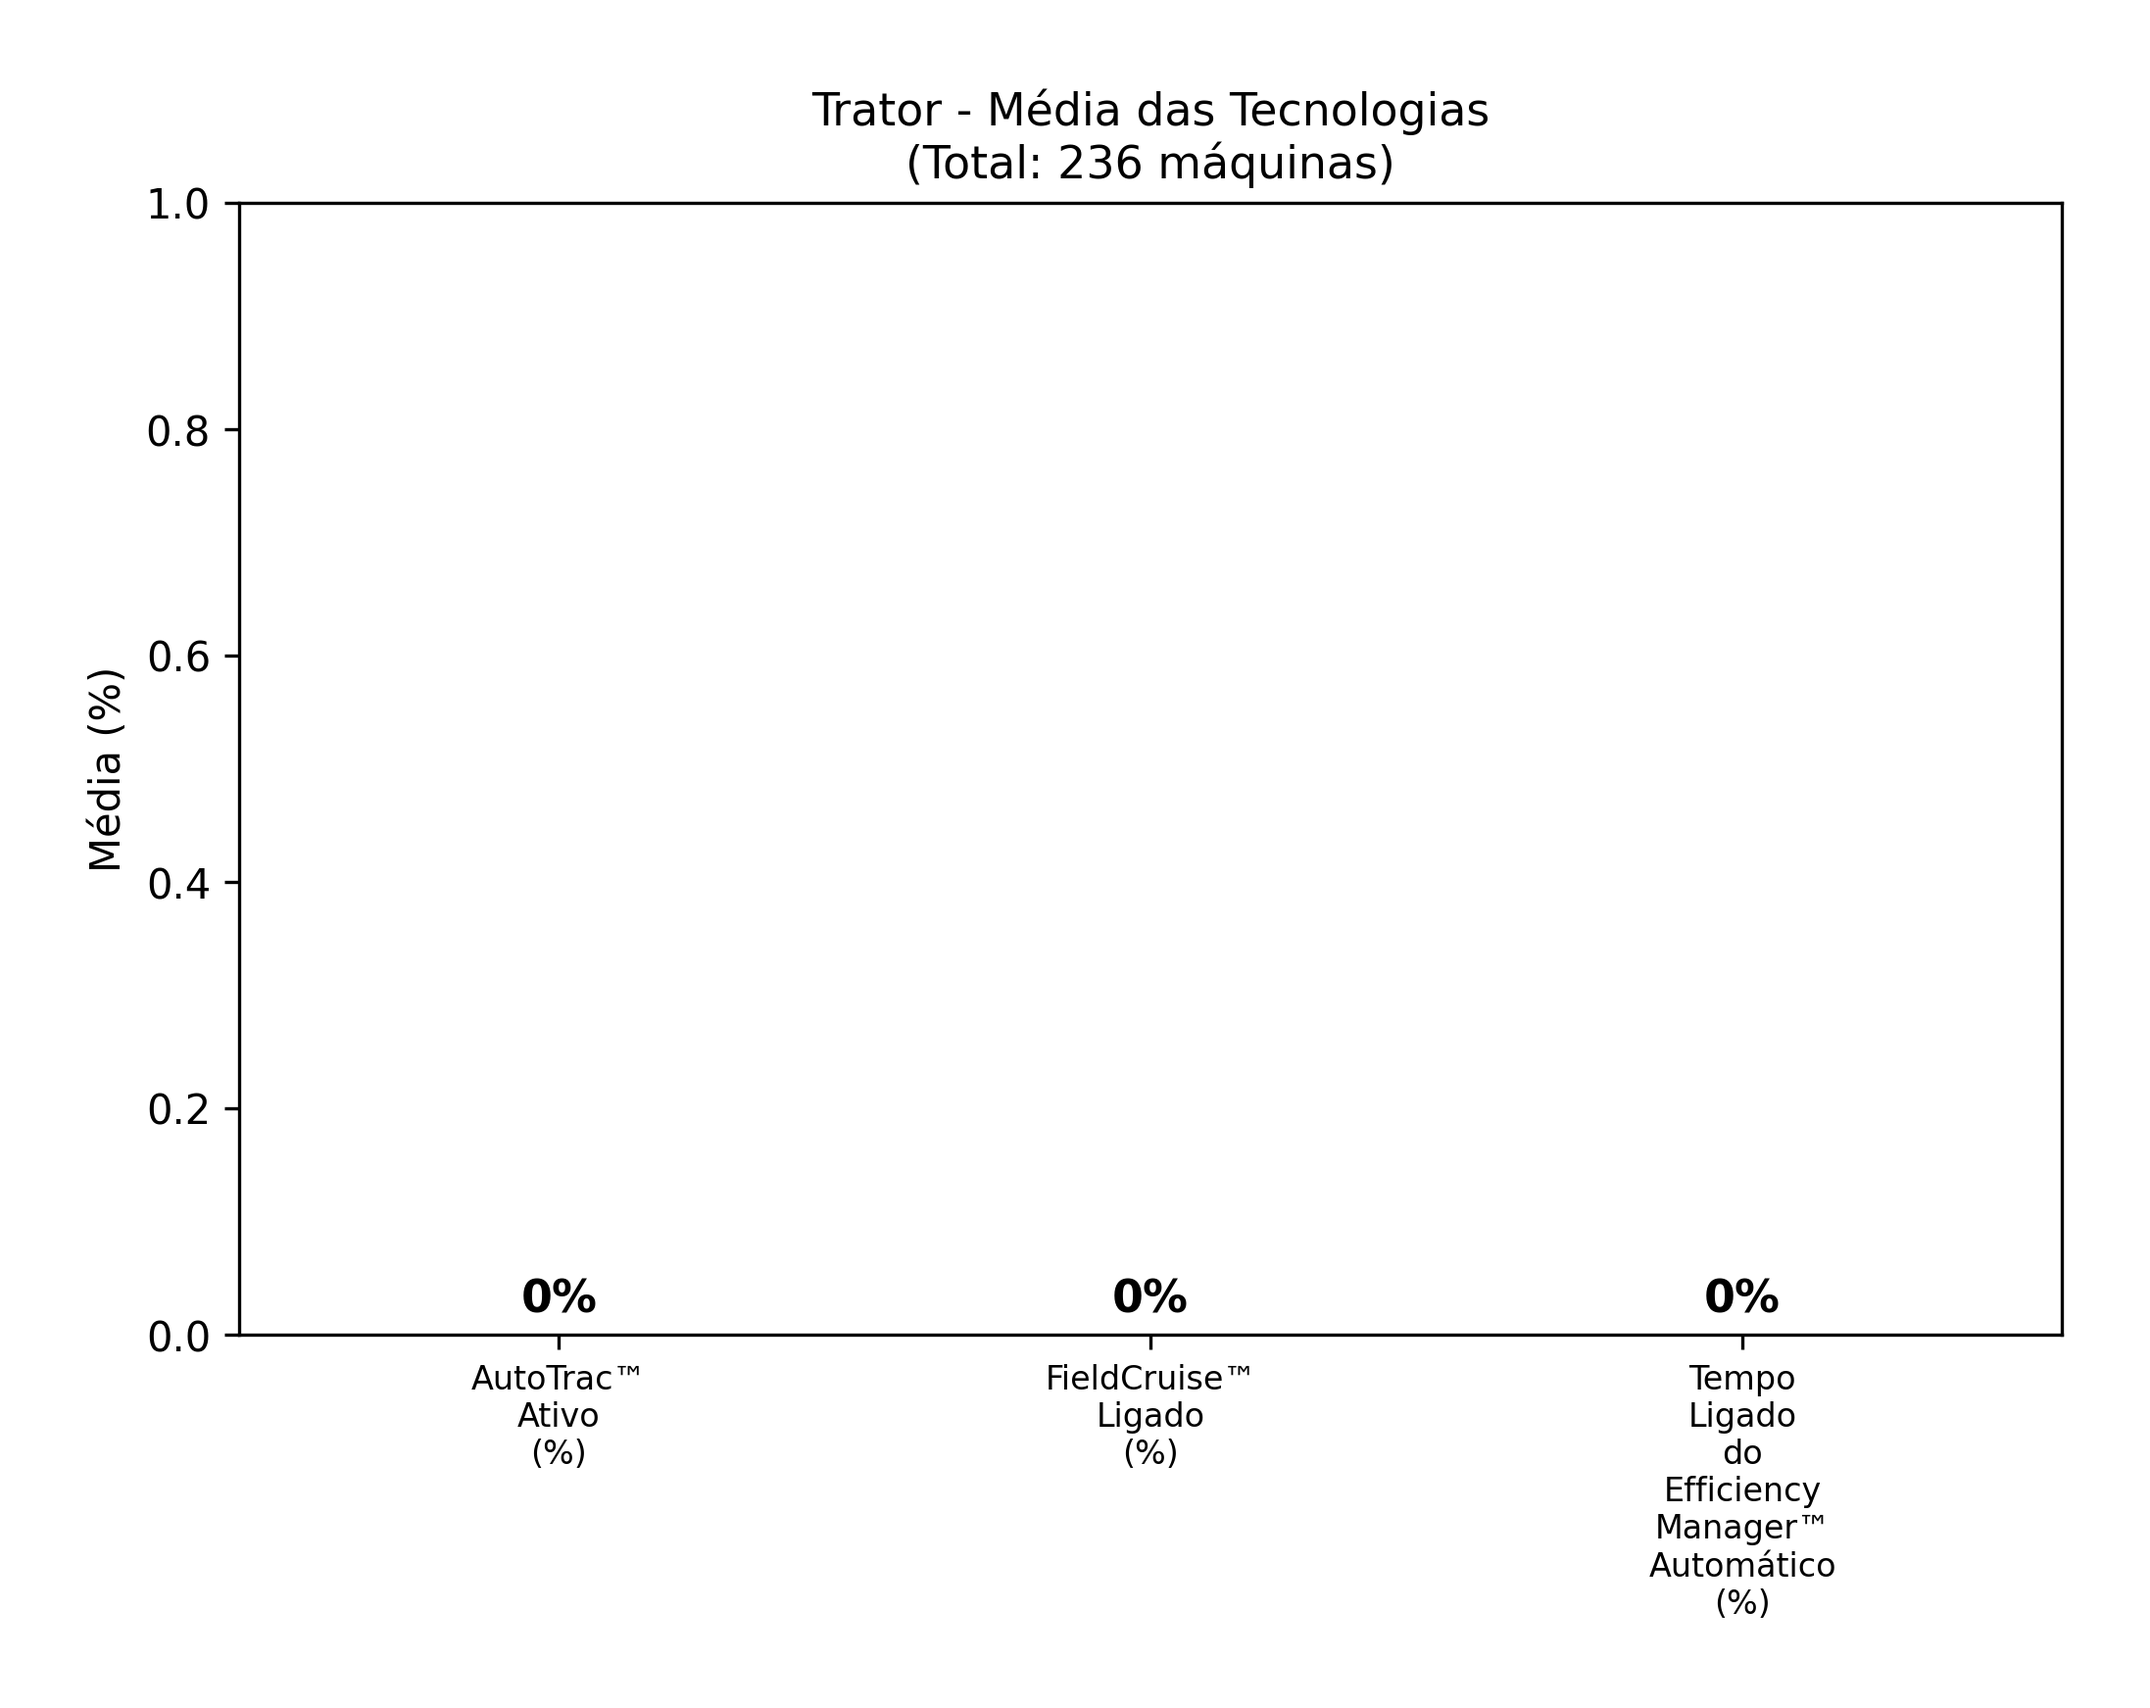
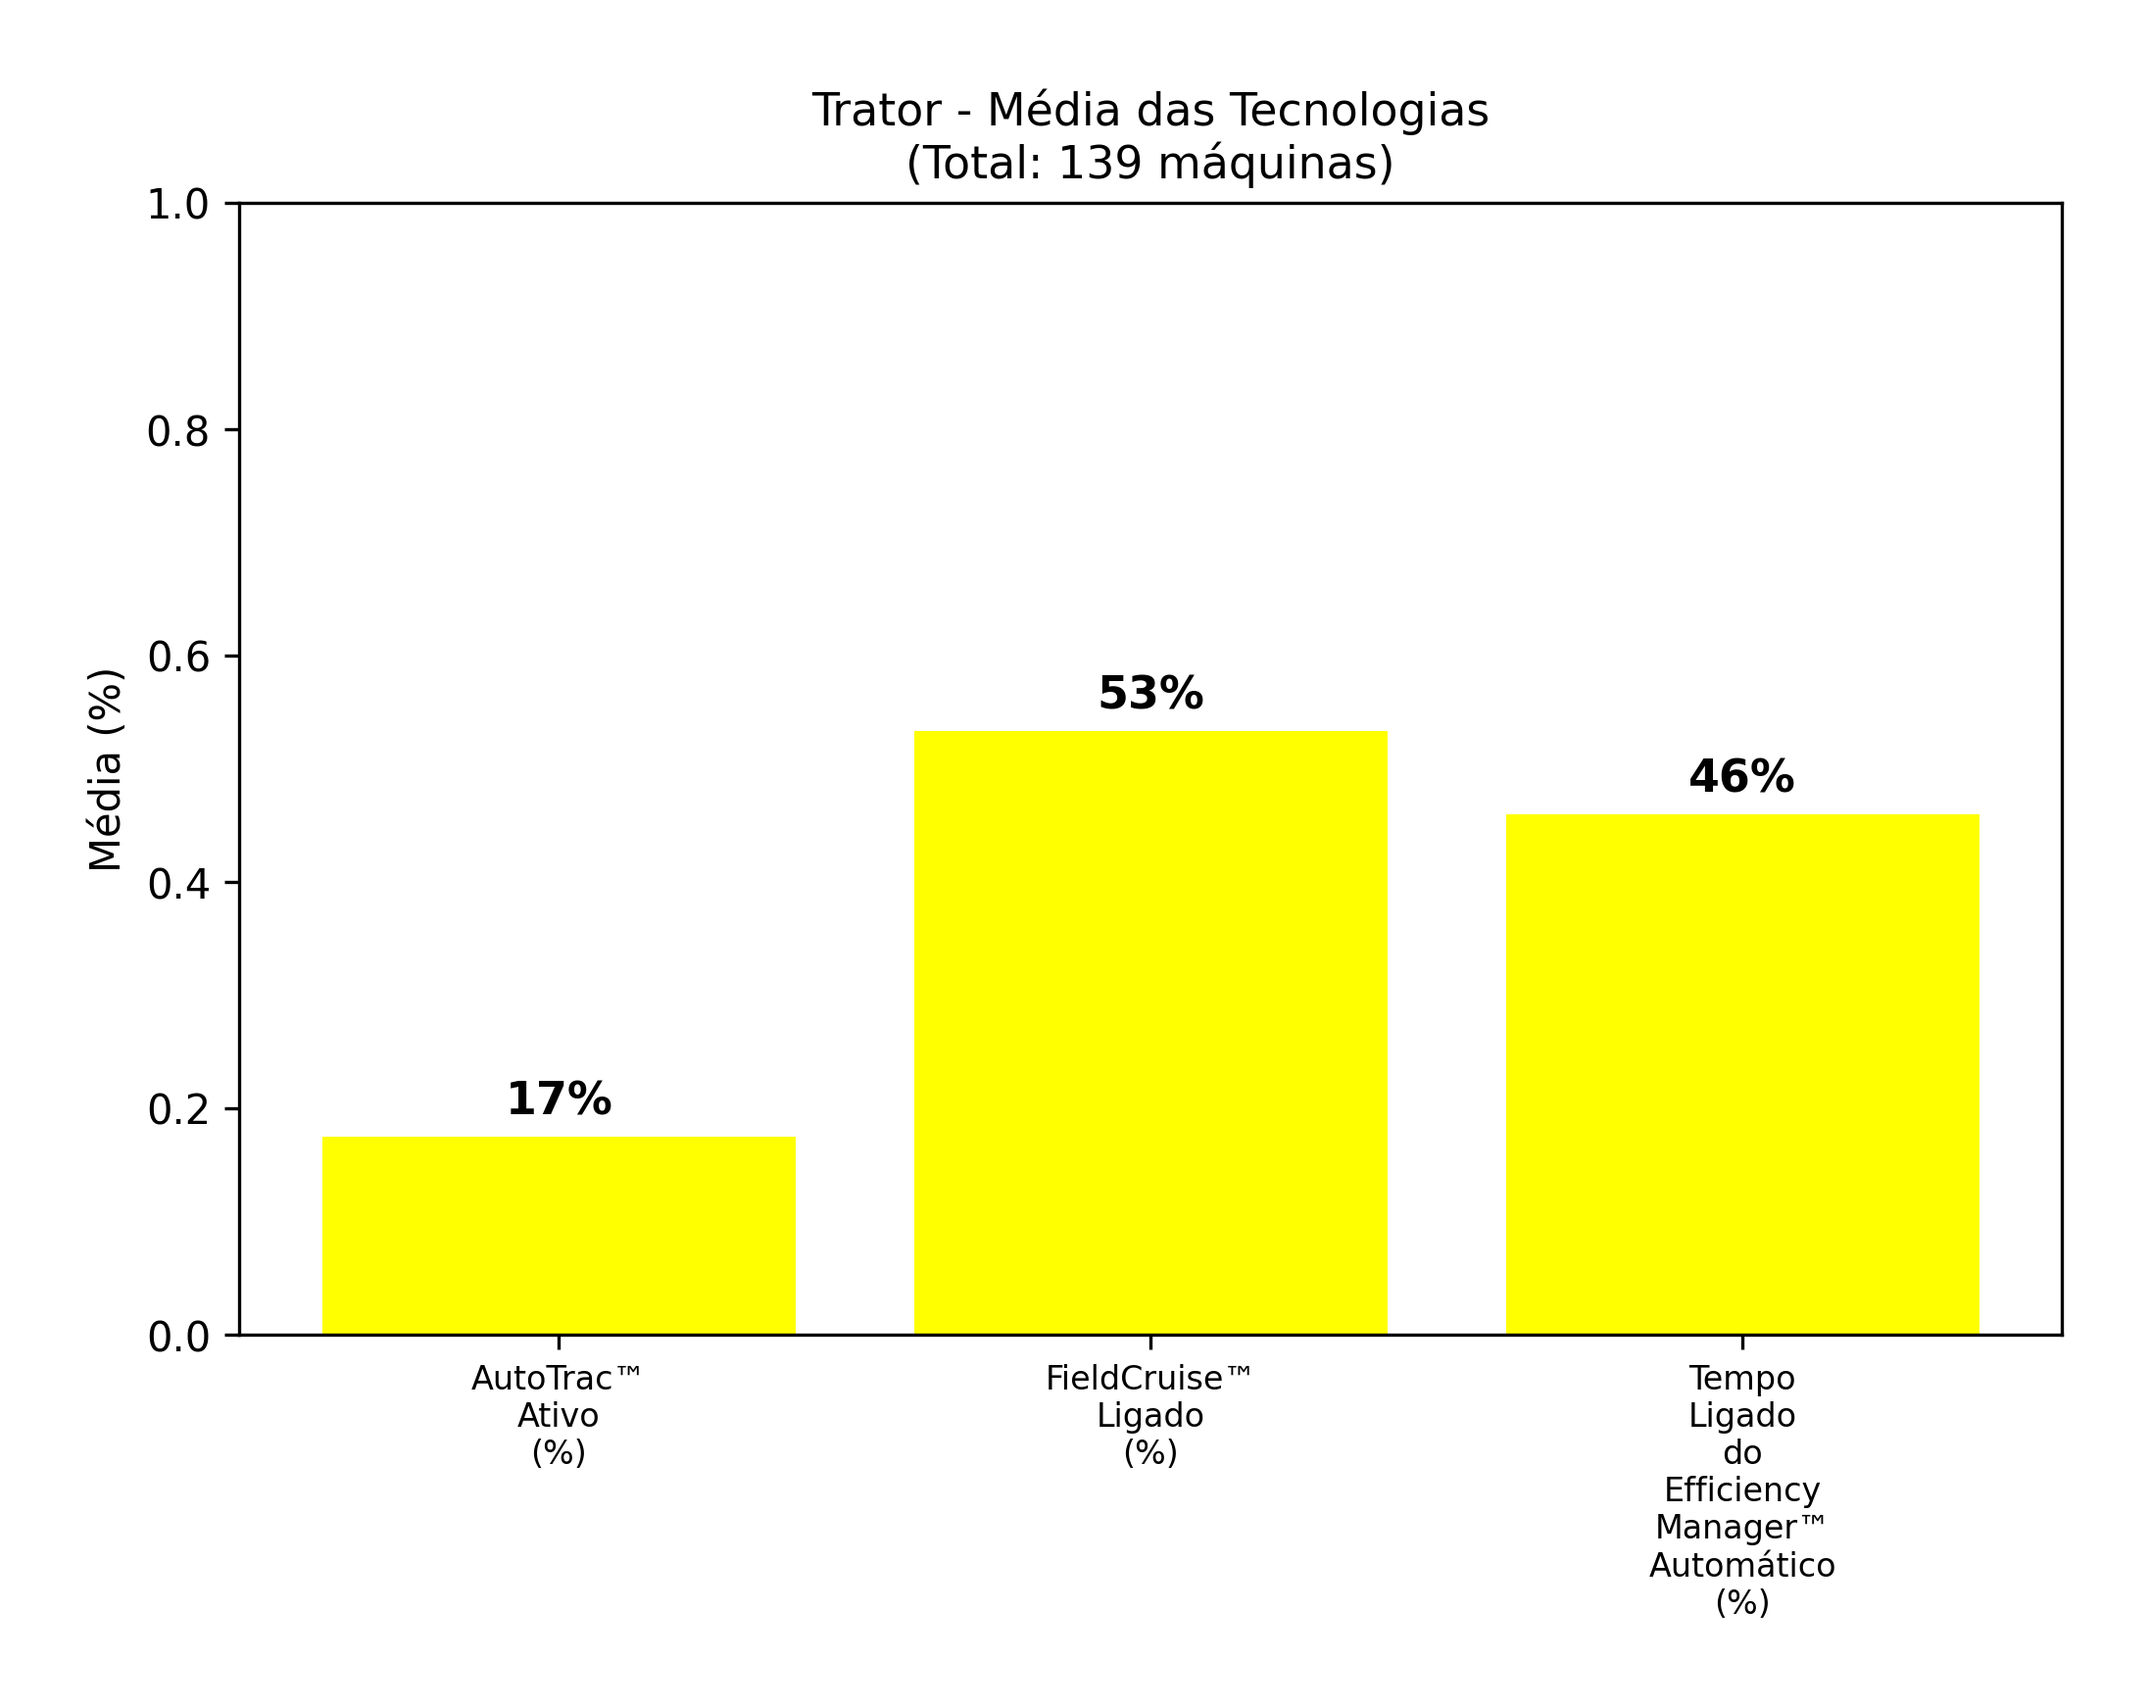
novos dados

Changed region(s): [[0.4029, 0.3718, 0.6509, 0.8055], [0.6819, 0.4337, 0.9298, 0.8055], [0.124, 0.6196, 0.3719, 0.8055]]

diff --git a/app.py b/app.py
@@ -417,45 +417,34 @@ if uploaded_file:
             st.stop()
 
         colunas = colunas_por_tipo[tipo_selecionado]
-####NOVIDADE
-        # Converte para número, mantém NaN onde for inválido
+
         for col in colunas:
             df_filtrado[col] = pd.to_numeric(df_filtrado[col], errors="coerce")
 
-        # Calcula médias ignorando NaN
+
         df_resultado = df_filtrado.groupby("Máquina")[colunas].mean().reset_index()
-
-        # Média por máquina (ignora NaN automaticamente)
-        df_resultado["Média (%)"] = df_resultado[colunas].mean(axis=1)
-
-        # Multiplica por 100 para formatar como porcentagem
-        for col in colunas:
-            df_resultado[col] = df_resultado[col] 
-        df_resultado["Média (%)"] = df_resultado["Média (%)"] * 100
-
-        # Arredondamento
-        df_resultado[colunas + ["Média (%)"]] = df_resultado[colunas + ["Média (%)"]].round(2)
-
-        # Ordenação
+        df_resultado["Média (%)"] = df_resultado[colunas].mean(axis=1) * 100 # média correta, ignora NaN
+        df_resultado["Média (%)"] = df_resultado["Média (%)"].apply(lambda x: round(x, 2))
         df_resultado = df_resultado.sort_values(by="Média (%)", ascending=False)
-
-        # Cálculo da média geral por coluna
-        media_por_coluna = df_filtrado[colunas].mean() * 100
-        media_por_coluna = media_por_coluna.round(2)
 
         media_geral_dict = {
             "Máquina": "Média Geral",
-            **{col: f"{media_por_coluna[col]}%" for col in colunas},
+            **{col: f"{round(df_resultado[col].mean() *100, 2)}%" for col in colunas},
             "Média (%)": ""
         }
+
         media_geral = pd.DataFrame([media_geral_dict])
         df_numerico = df_resultado.copy()
+        df_numerico[colunas] = df_numerico[colunas].fillna(0)  # apenas para exibir
+
         styled_df = pd.concat([df_numerico, media_geral], ignore_index=True)
+
 
         for col in colunas:
             styled_df[col] = styled_df[col].apply(lambda x: f"{x:.4f}" if isinstance(x, (float, int)) else x)
 
         styled_df["Média (%)"] = styled_df["Média (%)"].apply(lambda x: f"{x:.2f}%" if isinstance(x, (float, int)) else x)
+
 
         def color_scale(val):
             try:
@@ -511,8 +500,9 @@ if uploaded_file:
 
             st.pyplot(fig)
                         # 2) Gráficos separados por tecnologia para médias por modelo
-            df_filtrado[colunas_grafico] = df_filtrado[colunas_grafico].apply(pd.to_numeric, errors='coerce').fillna(0)
+            df_filtrado[colunas_grafico] = df_filtrado[colunas_grafico].apply(pd.to_numeric, errors='coerce')
             df_modelo = df_filtrado.groupby("Modelo")[colunas_grafico].mean() * 100
+
 
             for col in colunas_grafico:
                 fig, ax = plt.subplots(figsize=(8, 5))
@@ -631,8 +621,7 @@ if uploaded_file:
 
         todas_tecnologias = list(set(sum(colunas_por_tipo.values(), [])))
         for col in todas_tecnologias:
-             df[col] = pd.to_numeric(df[col], errors="coerce")  # mantém NaNs
-
+            df[col] = pd.to_numeric(df[col], errors="coerce")
 
         df_qtd = (
             df.groupby(["Organização", "Tipo_Cat"])
@@ -646,7 +635,7 @@ if uploaded_file:
             df_tipo = df[df["Tipo_Cat"] == tipo]
             medias_por_tipo[tipo] = df_tipo.groupby("Organização")[colunas_por_tipo[tipo]].mean()
 
-        df_medias = pd.concat(medias_por_tipo.values(), axis=1).fillna(0)
+        df_medias = pd.concat(medias_por_tipo.values(), axis=1)
         colunas_renomeadas = [f"{col}_{tipo}" for tipo, cols in colunas_por_tipo.items() for col in cols]
         df_medias.columns = colunas_renomeadas
 
@@ -847,7 +836,7 @@ if uploaded_file:
                     plt.savefig(caminho, dpi=300, bbox_inches='tight', pad_inches=0.3)
                     plt.close()
 
-                    ####atualização
+
                 # 3. Informações para capa
                 total_orgs = df_final.shape[0] - 1 if "TOTAL" in df_final.index else df_final.shape[0]
                 data_inicio = pd.to_datetime(df["Data de Início"], dayfirst=True).min().strftime("%d/%m/%Y")
